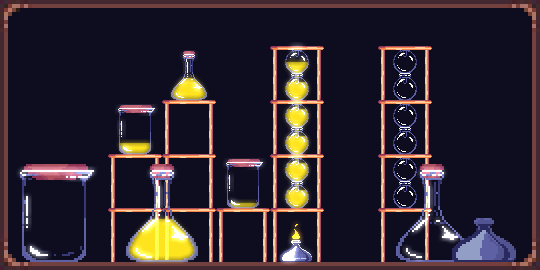
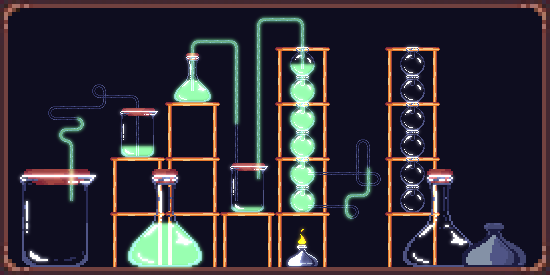
Demo update

Changed region(s): [[0.0296, 0.0593, 0.9778, 0.9778], [0.1481, 0.2963, 0.237, 0.3852]]

diff --git a/js/renderer.js b/js/renderer.js
@@ -41,6 +41,7 @@ let pside = 11;
 let pipes = [
 	[[3,1,2,4,0,30],[0,-5],[4,0],[0,15]],
 	[[5,1,2,2,0,43],[0,-5],[-4,0],[0,15]],
+	[[5,3,2,4,0,7],[5,0],[0,1],[-1,0],[0,-2],[2,0],[0,-5],[-1,0],[0,4],[2,0],[0,-1],[-7,0]],
 	[[2,2,2,5,0,12],[0,-6],[-4,0],[0,-1],[1,0],[0,2],[-5,0],[0,1],[3,0],[0,1],[-2,0],[0,1],[1,0],[0,6]]
 ];
 const drawPipe = (pipe) => {
@@ -70,7 +71,16 @@ const drawPipe = (pipe) => {
 		y += dy;
 	}
 }
+dR = 0.01;
+dG = 0.025;
+dB = 0.03;
 const render = () => {
+	R += dR;
+	G += dG;
+	B += dB;
+	if (R>1 || R<0) dR*=-1;
+	if (G>1 || G<0) dG*=-1;
+	if (B>1 || B<0) dB*=-1;
 	b1.bind();
 	b1.begin();
 	for (let i = 0 ; i < 10 ; i++) {
